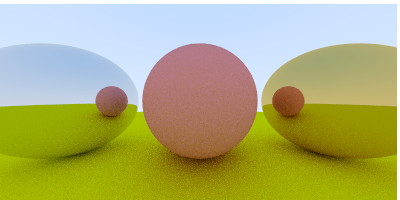
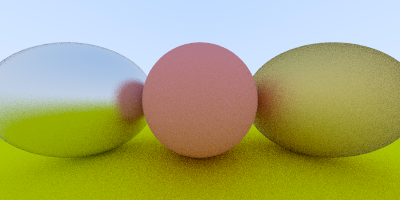
added logger class and fix image size

diff --git a/src/main.cpp b/src/main.cpp
@@ -1,4 +1,4 @@
-#include <iostream>
+#include <Logger.h>
 #include <string>
 
 #include "Image.h"
@@ -12,14 +12,6 @@
 #include "Material.h"
 
 using namespace traceraptor;
-
-void log(const char* message) {
-	std::cout << std::endl << message << std::endl;
-}
-
-void log(std::string message) {
-	std::cout << std::endl << message << std::endl;
-}
 
 Vec3 color(const Ray& r, Hitable *world, int current_ray_bounce, int MAX_RAY_BOUNCE) {
 	hit_record rec;
@@ -56,15 +48,15 @@ int main(int argc, char* argv[]) {
     Hitable *list[4];
     list[0] = new Sphere(Vec3(0,0,-1), 0.5, new Lambertian(Vec3(0.8, 0.3, 0.3)));
     list[1] = new Sphere(Vec3(0,-100.5,-1), 100, new Lambertian(Vec3(0.8,0.8,0.0)));
-    list[2] = new Sphere(Vec3(1.2,0,-1), 0.5, new Metal(Vec3(0.8,0.6,0.2)));
-    list[3] = new Sphere(Vec3(-1.2,0,-1), 0.5, new Metal(Vec3(0.8,0.8,0.8)));
+    list[2] = new Sphere(Vec3(1,0,-1), 0.5, new Metal(Vec3(0.8,0.6,0.2), 1.0));
+    list[3] = new Sphere(Vec3(-1,0,-1), 0.5, new Metal(Vec3(0.8,0.8,0.8), 0.3));
     Hitable *world = new HitableList(list, 4);
 
     Camera camera;
-    log("Beginning ray tracing");
+    Logger::log_debug("Beginning ray tracing");
     for (int j = 0; j < height; j++) {
     	for (int i = 0; i < width; i++) {
-    		log("Iteration [" + std::to_string(i) + ", " + std::to_string(j) +"] out of [" + std::to_string(width) + ", " + std::to_string(height) + "]");
+    		Logger::log_debug("Iteration [" + std::to_string(i) + ", " + std::to_string(j) +"] out of [" + std::to_string(width) + ", " + std::to_string(height) + "]");
     		Vec3 col(0,0,0);
     		for (int s=0; s < ns; s++) {
     			float u = ((float)i + random01())/(float)width;
@@ -78,10 +70,10 @@ int main(int argc, char* argv[]) {
     	}
     }
 
-    log("Beginning image writing");
+    Logger::log_debug("Beginning image writing");
     int result = image.writePNGfile(fileName);
     if (result < 0) {
-    	log("cannot create image file");
+    	Logger::log_debug("cannot create image file");
     	return -1;
     }
 

diff --git a/src/Material.h b/src/Material.h
@@ -12,6 +12,8 @@
 #include "Ray.h"
 #include "UtilMath.h"
 
+#define UNUSED(expr) (void)(expr)
+
 namespace traceraptor {
 
 class Material {
@@ -29,6 +31,7 @@ public:
     Lambertian(const Vec3& e): albedo(e){}
 
     virtual bool scatter(const Ray &r_in, const hit_record &rec, Vec3 &attenuation, Ray& scattered) const{
+    	UNUSED(r_in);
         Vec3 target = rec.p + rec.normal + random_in_unit_sphere();
         scattered = Ray(rec.p, target - rec.p);
         attenuation = albedo;
@@ -41,18 +44,21 @@ public:
 class Metal: public Material{
 public:
 
-    Metal(const Vec3& e) : albedo(e) {}
+    Metal(const Vec3& e, float f) : albedo(e)  {
+    		fuzz = (f < 1) ? f : 1;
+    }
 
     virtual bool scatter(const Ray &r_in, const hit_record &rec, Vec3 &attenuation, Ray& scattered) const{
         Vec3 v = unit_vector(r_in.direction());
         Vec3 reflected = reflect(v, rec.normal);
 
-        scattered = Ray(rec.p, reflected);
+        scattered = Ray(rec.p, reflected + fuzz*random_in_unit_sphere());
         attenuation = albedo;
         return (dot(scattered.direction(), rec.normal) > 0);
     }
 
     Vec3 albedo;
+    float fuzz;
 };
 
 } /* namespace traceraptor */

diff --git a/src/Image.cpp b/src/Image.cpp
@@ -5,6 +5,7 @@
  *      Author: bogdan
  */
 
+#include <Logger.h>
 #include "Image.h"
 #include "Vec3.h"
 
@@ -25,16 +26,17 @@ Image::~Image() {
 
 bool Image::isValidPixelCoordinate(int x, int y)
 {
-	return (x <= (width-CHANNELS_PER_PIXEL) && y <= (height-CHANNELS_PER_PIXEL) && x >= 0 && y >= 0);
+	return (x < width && y < height && x >= 0 && y >= 0);
 }
 
 int Image::getPixelIndex(int x, int y) {
-	return (x + (height-y)*width)*CHANNELS_PER_PIXEL;
+	return (x + (height-(y+1))*width)*CHANNELS_PER_PIXEL;
 }
 
 void Image::setPixel(int x, int y, unsigned char r, unsigned char g, unsigned char b, unsigned char a){
 	if (!isValidPixelCoordinate(x,y))
 	{
+		Logger::log_debug("Discarded pixel : [" + std::to_string(x) + ", " + std::to_string(y) + "]");
 		return;
 	}
 
@@ -48,6 +50,7 @@ void Image::setPixel(int x, int y, unsigned char r, unsigned char g, unsigned ch
 void Image::setPixel(int x, int y, const Vec3 color){
 	if (!isValidPixelCoordinate(x,y))
 	{
+		Logger::log_debug("Discarded pixel : [" + std::to_string(x) + ", " + std::to_string(y) + "]");
 		return;
 	}
 

diff --git a/src/Logger.h b/src/Logger.h
@@ -1,0 +1,29 @@
+/*
+ * Util.h
+ *
+ *  Created on: Nov 26, 2016
+ *      Author: bogdan
+ */
+
+#ifndef TRACERAPTOR_UTIL_H_
+#define TRACERAPTOR_UTIL_H_
+
+#include <iostream>
+#include <string>
+
+namespace traceraptor {
+
+class Logger {
+public:
+	static void log_debug(const char* message) {
+		std::cout << message << std::endl;
+	}
+
+	static void log_debug(std::string message) {
+		std::cout << message << std::endl;
+	}
+};
+
+} /* namespace traceraptor */
+
+#endif /* TRACERAPTOR_UTIL_H_ */
